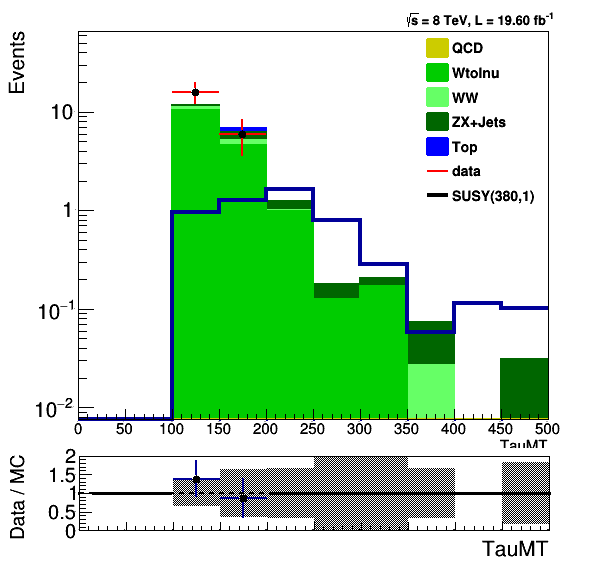
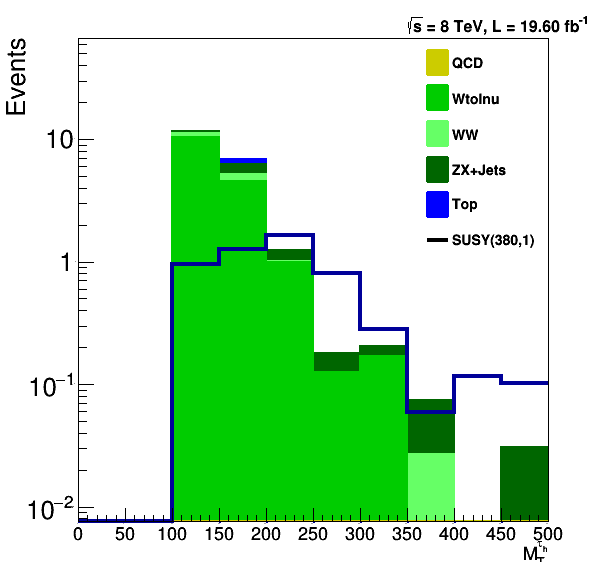
object and lepton-tau parts are update

diff --git a/notes/AN-14-275/trunk/SelectionLepTau.tex b/notes/AN-14-275/trunk/SelectionLepTau.tex
@@ -10,25 +10,26 @@ To suppress dilepton and multilepton backgrounds, events with an extra $e$ or $\
 
 After requesting two opposite sign leptons in the events, a loose cut on \MET $(30 \GeV)$ is applied to suppress QCD events. As there is no b-quark in the signal, rejecting events with one or more b-tagged jets with $\PT > 20 \GeV$ helps a lot in reducing $t\bar{t}$ and $W+b$ backgrounds.
 
-To reject QCD low mass resonances, the invariant mass of the lepton and the $\Tau$ is requested to be greater than $15\ \GeV$. Another cut on the invariant mass of the di-lepton system is applied to remove the peak of the $Z+jets$ events. It has been found that the visible mass of the $Z\to\tau\tau\to\,e +\Tau$ moves to $60 \pm 15 GeV$ due to mis-reconstruction of the energy of the $\Tau$ and also the missing energy due to the decay of the $\tau$ to electron. So the events with invariant mass in the range of $[45,75]$ are cut away. The minimum angle in the transverse plane between the \MET and the jets with \PT $>$ 40 \GeVc and $|\eta| <$ 5.0 is asked to be greater than 1.0. As the last pre-selection cut, events with $MT2<40 GeV$ are discarded to kill the bulk of the QCD events and get rid of related uncertainties due to mis-reconstruction of the QCD events. As it has mentioned above, the signal events are expected to have high $MT2$ values and are not removed with such a cut.
+To reject QCD low mass resonances, the invariant mass of the lepton and the $\Tau$ is requested to be greater than $15\ \GeV$. Another cut on the invariant mass of the di-lepton system is applied to remove the peak of the $Z+jets$ events. It has been found that the visible mass of the $Z\to\tau\tau\to\,e +\Tau$ moves to $60 \pm 15 GeV$ due to mis-reconstruction of the energy of the $\Tau$ and also the missing energy due to the decay of the $\tau$ to electron. So the events with invariant mass in the range of $[45,75]$ are cutted away. The minimum angle in the transverse plane between the \MET and the jets with \PT $>$ 40 \GeVc and $|\eta| <$ 5.0 is asked to be greater than 1.0. As the last pre-selection cut, events with $MT2<40 GeV$ are discarded to kill the bulk of the QCD events and get rid of related uncertainities due to mis-reconstruction of the QCD events. As it has mentioned above, the signal events are expected to have high $MT2$ values and are not removed with such a cut.
 
 \begin{table}
 \begin{center}
 \begin{tiny}
-\begin{tabular}{lrrrrrrlr}
+\begin{tabular}{llllllllll}
 \hline
 \hline
- & SUSY(380,1) & QCD & VV & Wtolnu & DY & Top & Total Bkg & Data\\
+  & SUSY(380,1) & QCD & W & ZX & Top & WW & Higgs & MC & Data \\
 \hline
 \hline
-\MET,b,DiLepton Selection & 20.49 & 6748.66 & 589.41 & 46139.56 & 17071.56 & 1845.78 & 72394.97$\pm$2147.82 & 76066\\
-Extra Lepton Veto & 20.49 & 6477.95 & 582.79 & 46120.60 & 17039.83 & 1820.77 & 72041.94$\pm$2130.68 & 75992\\
-Cuts on $m_{\mu\Tau}$ & 19.89 & 6072.89 & 574.26 & 45438.09 & 15867.28 & 1794.82 & 69747.33$\pm$2121.47 & 73459\\
-$\mindphifour > 1.0$ & 12.70 & 2271.96 & 198.61 & 11416.01 & 3169.72 & 693.16 & 17749.46$\pm$1498.73 & 19761\\
-$\mttwo > 40 \GeV$ & 9.86 & 1514.64 & 82.14 & 4466.30 & 68.90 & 251.07 & 6383.05$\pm$1478.31 & 5446\\
+\MET,b,DiLepton Selection & 20.49$\pm$2.03 & 6748.66 & 46139.56 & 17071.56 & 1845.78 & 589.41 & 248.92 & 72643.89$\pm$2147.82 & 76066.00$\pm$275.80 \\
+Extra Lepton Veto & 19.89$\pm$2.00 & 6476.83 & 46048.34 & 15902.83 & 1797.65 & 575.12 & 243.94 & 71044.71$\pm$2130.46 & 74382.00$\pm$272.73 \\
+Cuts on $m_{\e\Tau}$ & 15.99$\pm$1.71 & 4788.17 & 27465.97 & 5826.98 & 1355.28 & 437.13 & 155.56 & 40029.09$\pm$2068.14 & 41968.00$\pm$204.86 \\
+$\mindphifour > 1.0$ & 12.70$\pm$1.56 & 2271.96 & 11416.01 & 3169.72 & 693.16 & 198.61 & 94.85 & 17844.31$\pm$1498.73 & 19761.00$\pm$140.57 \\
+$\mttwo > 40 \GeV$ & 9.86$\pm$1.38 & 1514.64 & 4466.3 & 68.9 & 251.07 & 82.14 & 1.46 & 6384.52$\pm$1478.31 & 5446.00$\pm$73.80 \\
 \hline
-$\mttwo > 90 \GeV$ & 5.69 & 0.00 & 1.57 & 16.1 & 1.82 & 0.64 & 20.21$\pm$4.24 & 25\\
-$\tauMT > 200 \GeV$ & 3.47 & 0.00 & 0.05 & 1.2 & 0.38 & 0.02 & 1.74$\pm$0.63 & 3\\
+$\mttwo > 90 \GeV$ & 5.69$\pm$1.08 & 0 & 16.18 & 1.82 & 0.64 & 1.57 & 0.19 & 20.40$\pm$4.24 & - \\
+$\tauMT > 200 \GeV$ & 3.47$\pm$0.88 & 0 & 1.29 & 0.38 & 0.02 & 0.05 & 0.06 & 1.79$\pm$0.63 & - \\
+
 \hline
 \hline
 \end{tabular}
@@ -41,20 +42,20 @@ $\tauMT > 200 \GeV$ & 3.47 & 0.00 & 0.05 & 1.2 & 0.38 & 0.02 & 1.74$\pm$0.63 & 3
 \begin{table}
 \begin{center}
 \begin{tiny}
-\begin{tabular}{lrrrrrrlr}
+\begin{tabular}{llllllllll}
 \hline
 \hline
- & SUSY(380,1) & QCD & VV & Wtolnu & DY & Top & Total Bkg & Data\\
+  & SUSY(380,1) & QCD & W & ZX & Top & WW & Higgs & MC & Data \\
 \hline
 \hline
-\MET, b, DiLeptons & 18.28 & 6791.27 & 1778.41 & 79084.31 & 37000.63 & 4433.53 & 129088.14$\pm$3009.89 & 121644\\
-Extra Lepton Veto & 16.33 & 5192.66 & 1034.93 & 77139.4 & 32166.18 & 2972.25 & 118505.41$\pm$2601.51 & 111344\\
-Cuts on $m_{\mu\Tau}$ & 13.68 & 1721.45 & 759.7 & 46551.75 & 6963.01 & 2128.4 & 58124.31$\pm$1262.89 & 55282\\
-$\mindphifour > 1.0$ & 11.29 & 70.87 & 382.9 & 19592.59 & 4130.47 & 1129.26 & 25306.09$\pm$214.76 & 26955\\
-$\mttwo > 40\GeV$ & 8.18 & 0 & 164.59 & 8558.78 & 157.33 & 427.51 & 9308.22$\pm$132.94 & 9253\\
+\MET,b,DiLepton Selection & 18.28 & 6791.27 & 79084.31 & 37000.63 & 4433.53 & 1778.41 & 242.76 & 129330.9$\pm$3009.89 & 121644 \\
+Extra Lepton Veto & 16.33 & 5192.66 & 77139.4 & 32166.18 & 2972.25 & 1034.93 & 217.98 & 118723.39$\pm$2601.51 & 111344 \\
+Cuts on $m_{\mu\Tau}$ & 13.68 & 1721.45 & 46551.75 & 6963.01 & 2128.4 & 759.7 & 109.29 & 58233.6$\pm$1262.89 & 55282 \\
+$\mindphifour > 1.0$ & 11.29 & 70.87 & 19592.59 & 4130.47 & 1129.26 & 382.9 & 80.08 & 25386.17$\pm$214.76 & 26955 \\ 
+$\mttwo > 40 \GeV$ & 8.18 & 0 & 8558.78 & 157.33 & 427.51 & 164.59 & 1.5 & 9309.72$\pm$132.94 & 9253 \\
 \hline
-$\mttwo > 90\GeV$ & 3.5 & 0 & 2.19 & 17.67 & 1.17 & 1.15 & 22.18$\pm$5.20 & 30\\
-$\tauMT > 200\GeV$ & 2.41 & 0 & 0.34 & 0.79 & 0.28 & 0 & 1.40$\pm$0.49 & 5\\
+$\mttwo > 90 \GeV$ & 3.5 & 0 & 17.67 & 1.17 & 1.15 & 2.19 & 0.17 & 22.35$\pm$5.2 &  \\
+$\tauMT > 200 \GeV$ & 2.41 & 0 & 0.79 & 0.28 & 0 & 0.34 & 0.05 & 1.45$\pm$.49 &  \\
 \hline
 \hline
 \end{tabular}
@@ -82,7 +83,7 @@ The cut-flow-tables for the $e\Tau$ and $\mu\Tau$ pre-selections are shown in ta
 \label{fig:datamcmuotau}
 \end{figure}
 
-Similar to the $\Tau\Tau$ channel, first we find the optimized cut on the $MT2$ to suppress backgrounds especially $W+jet$ events. As it has been shown in FIG~\ref{fig:mt2leptontau}, the best value to cut on, similar to the $\Tau\Tau$ channel is $MT2 > 90 GeV$ for both $l\Tau$ channels. Such a high cut on the $MT2$ increases the sensitivity of the study to signal events with high $\chipm$ and $\chiz$ mass differences. We then investigate the shape of different variables for signal and backgrounds and try to find the most optimized cut to have the best exclusion. The most sensitive variable for both channels are found to be the $\Tau$ transverse mass. As it has been shown in FIG~\ref{fig:taumtleptontau}, the best cut value for the high mass difference signal is $M_{T}^{\Tau} > 200 GeV$. You can find the composition of the backgrounds and number of remaining signals for both channels in the last row of the cut-flow-tables (tables~\ref{tbl:cutflowtableeletau} and~\ref{tbl:cutflowtablemuotau}).
+Similar to the $\Tau\Tau$ channel, first we find the optimized cut on the $MT2$ to suppress backgrounds especially $W+jet$ events. As it has been shown in FIG~\ref{fig:mt2leptontau}, the best value to cut on, similar to the $\Tau\Tau$ channel is $MT2 > 90 GeV$ for both $\ell+\Tau$ channels. Such a high cut on the $MT2$ increases the sensitivity of the study to signal events with high $\chipm$ and $\chiz$ mass differences. We then investigate the shape of different variables for signal and backgrounds and try to find the most optimized cut to have the best exclusion. The most sensitive variable for both channels are found to be the $\Tau$ transverse mass. As it has been shown in FIG~\ref{fig:taumtleptontau}, the best cut value for the high mass difference signal is $M_{T}^{\Tau} > 200 GeV$. You can find the composition of the backgrounds and number of remaining signals for both channels in the last row of the cut flow tables (tables~\ref{tbl:cutflowtableeletau} and~\ref{tbl:cutflowtablemuotau}).
 
 \begin{figure}[htbp]
 \centering
@@ -100,15 +101,4 @@ Similar to the $\Tau\Tau$ channel, first we find the optimized cut on the $MT2$ 
 \label{fig:taumtleptontau}
 \end{figure}
 
-Opposite to the $\Tau\Tau$ channel, the events with $MT2<90 GeV$ are not useful in electron/$\mu\Tau$ channels because of the contamination of the $W+jets$ events.
-
-
-
-
-
-
-
-
-
-
-
+Opposite to the $\Tau\Tau$ channel, the events with $MT2<90 GeV$ are not useful in $\ell\tau$ channels because of the contamination of the $W+jets$ events.

diff --git a/notes/AN-14-275/trunk/SelectionEleTau/TauMT.C b/notes/AN-14-275/trunk/SelectionEleTau/TauMT.C
@@ -11,7 +11,7 @@
    TauMT_ratio_AllSUSYc_ratio_TauMT_MT2Cut->SetFrameBorderMode(0);
   
 // ------------>Primitives in pad: TauMT_ratio_AllSUSY_plotpad_TauMT_MT2Cut
-   TPad *TauMT_ratio_AllSUSY_plotpad_TauMT_MT2Cut = new TPad("TauMT_ratio_AllSUSY_plotpad_TauMT_MT2Cut", "Pad containing the overlay plot",0,0.211838,1,1);
+   TPad *TauMT_ratio_AllSUSY_plotpad_TauMT_MT2Cut = new TPad("TauMT_ratio_AllSUSY_plotpad_TauMT_MT2Cut", "Pad containing the overlay plot",0,0.02,1,1); //.211838
    TauMT_ratio_AllSUSY_plotpad_TauMT_MT2Cut->Draw();
    TauMT_ratio_AllSUSY_plotpad_TauMT_MT2Cut->cd();
    TauMT_ratio_AllSUSY_plotpad_TauMT_MT2Cut->Range(-83.44463,-2.453209,550.7343,2.138869);
@@ -42,7 +42,7 @@
    Int_t ci;   // for color index setting
    ci = TColor::GetColor("#000099");
    MT2Cut_TauMT_stack_4->SetLineColor(ci);
-   MT2Cut_TauMT_stack_4->GetXaxis()->SetTitle("TauMT");
+   MT2Cut_TauMT_stack_4->GetXaxis()->SetTitle("M_{T}^{#tau_{h}}");
    MT2Cut_TauMT_stack_4->GetXaxis()->SetLabelFont(42);
    MT2Cut_TauMT_stack_4->GetXaxis()->SetLabelSize(0.035);
    MT2Cut_TauMT_stack_4->GetXaxis()->SetTitleSize(0.035);
@@ -239,13 +239,13 @@
    MT2Cut_TauMT->Draw("hist");
    
    TH1D *h2_copy__39 = new TH1D("h2_copy__39","",10,0,500);
-   h2_copy__39->SetBinContent(3,16);
-   h2_copy__39->SetBinContent(4,6);
+   // h2_copy__39->SetBinContent(3,16);
+   // h2_copy__39->SetBinContent(4,6);
    // h2_copy__39->SetBinContent(5,1);
    // h2_copy__39->SetBinContent(7,1);
    // h2_copy__39->SetBinContent(10,1);
-   h2_copy__39->SetBinError(3,4);
-   h2_copy__39->SetBinError(4,2.44949);
+   // h2_copy__39->SetBinError(3,4);
+   // h2_copy__39->SetBinError(4,2.44949);
    // h2_copy__39->SetBinError(5,1);
    // h2_copy__39->SetBinError(7,1);
    // h2_copy__39->SetBinError(10,1);
@@ -274,7 +274,7 @@
    h2_copy__39->GetZaxis()->SetLabelSize(0.035);
    h2_copy__39->GetZaxis()->SetTitleSize(0.035);
    h2_copy__39->GetZaxis()->SetTitleFont(42);
-   h2_copy__39->Draw("sameE");
+   // h2_copy__39->Draw("sameE");
    
    TH1D *MT2Cut_TauMT_SUSY_380_1__40 = new TH1D("MT2Cut_TauMT_SUSY_380_1__40","",10,0,500);
    MT2Cut_TauMT_SUSY_380_1__40->SetBinContent(3,0.9566879);
@@ -333,7 +333,7 @@ tex->SetNDC();
 
    ci = TColor::GetColor("#000099");
    MT2Cut_TauMT__41->SetLineColor(ci);
-   MT2Cut_TauMT__41->GetXaxis()->SetTitle("TauMT");
+   MT2Cut_TauMT__41->GetXaxis()->SetTitle("M_{T}^{#tau_{h}}");
    MT2Cut_TauMT__41->GetXaxis()->SetLabelFont(42);
    MT2Cut_TauMT__41->GetXaxis()->SetLabelSize(0.035);
    MT2Cut_TauMT__41->GetXaxis()->SetTitleSize(0.035);
@@ -371,7 +371,7 @@ tex->SetNDC();
    entry->SetMarkerColor(1);
    entry->SetMarkerStyle(21);
    entry->SetMarkerSize(1);
-   entry=leg->AddEntry("MT2Cut_TauMT_Wtolnu","Wtolnu","f");
+   entry=leg->AddEntry("MT2Cut_TauMT_Wtolnu","W","f");
 
    ci = TColor::GetColor("#00cc00");
    entry->SetFillColor(ci);
@@ -397,7 +397,7 @@ tex->SetNDC();
    entry->SetMarkerColor(1);
    entry->SetMarkerStyle(21);
    entry->SetMarkerSize(1);
-   entry=leg->AddEntry("MT2Cut_TauMT_DY","ZX+Jets","f");
+   entry=leg->AddEntry("MT2Cut_TauMT_DY","ZX","f");
 
    ci = TColor::GetColor("#006600");
    entry->SetFillColor(ci);
@@ -423,15 +423,15 @@ tex->SetNDC();
    entry->SetMarkerColor(1);
    entry->SetMarkerStyle(21);
    entry->SetMarkerSize(1);
-   entry=leg->AddEntry("MT2Cut_TauMT_data","data","l");
+   //  entry=leg->AddEntry("MT2Cut_TauMT_data","data","l");
 
-   ci = TColor::GetColor("#ff0000");
-   entry->SetLineColor(ci);
-   entry->SetLineStyle(1);
-   entry->SetLineWidth(2);
-   entry->SetMarkerColor(1);
-   entry->SetMarkerStyle(21);
-   entry->SetMarkerSize(1);
+   // ci = TColor::GetColor("#ff0000");
+   // entry->SetLineColor(ci);
+   // entry->SetLineStyle(1);
+   // entry->SetLineWidth(2);
+   // entry->SetMarkerColor(1);
+   // entry->SetMarkerStyle(21);
+   // entry->SetMarkerSize(1);
    entry=leg->AddEntry("MT2Cut_TauMT_SUSY_380_1","SUSY(380,1)","l");
    entry->SetLineColor(1);
    entry->SetLineStyle(1);
@@ -445,7 +445,7 @@ tex->SetNDC();
   
 // ------------>Primitives in pad: TauMT_ratio_AllSUSY_ratiopad_TauMT_MT2Cut
    TauMT_ratio_AllSUSY_ratiopad_TauMT_MT2Cut = new TPad("TauMT_ratio_AllSUSY_ratiopad_TauMT_MT2Cut", "Pad containing the ratio",0,0.01863354,0.9967105,0.2189441);
-   TauMT_ratio_AllSUSY_ratiopad_TauMT_MT2Cut->Draw();
+   //TauMT_ratio_AllSUSY_ratiopad_TauMT_MT2Cut->Draw();
    TauMT_ratio_AllSUSY_ratiopad_TauMT_MT2Cut->cd();
    TauMT_ratio_AllSUSY_ratiopad_TauMT_MT2Cut->Range(-84.4542,-0.8571431,547.3882,2.214286);
    TauMT_ratio_AllSUSY_ratiopad_TauMT_MT2Cut->SetFillColor(0);
@@ -483,7 +483,7 @@ tex->SetNDC();
    h1_copy__42->SetLineColor(ci);
    h1_copy__42->SetLineWidth(2);
    h1_copy__42->SetMarkerColor(ci);
-   h1_copy__42->GetXaxis()->SetTitle("TauMT");
+   h1_copy__42->GetXaxis()->SetTitle("M_{T}^{#tau_{h}}");
    h1_copy__42->GetXaxis()->SetLabelFont(42);
    h1_copy__42->GetXaxis()->SetLabelSize(0);
    h1_copy__42->GetXaxis()->SetTitleSize(0.2);
@@ -567,7 +567,7 @@ tex->SetNDC();
    h1_copy__44->SetLineColor(ci);
    h1_copy__44->SetLineWidth(2);
    h1_copy__44->SetMarkerColor(ci);
-   h1_copy__44->GetXaxis()->SetTitle("TauMT");
+   h1_copy__44->GetXaxis()->SetTitle("M_{T}^{#tau_{h}}");
    h1_copy__44->GetXaxis()->SetLabelFont(42);
    h1_copy__44->GetXaxis()->SetLabelSize(0);
    h1_copy__44->GetXaxis()->SetTitleSize(0.2);
@@ -590,5 +590,5 @@ tex->SetNDC();
    TauMT_ratio_AllSUSYc_ratio_TauMT_MT2Cut->cd();
    TauMT_ratio_AllSUSYc_ratio_TauMT_MT2Cut->Modified();
    TauMT_ratio_AllSUSYc_ratio_TauMT_MT2Cut->cd();
-   TauMT_ratio_AllSUSYc_ratio_TauMT_MT2Cut->SetSelected(TauMT_ratio_AllSUSYc_ratio_TauMT_MT2Cut);
+   //TauMT_ratio_AllSUSYc_ratio_TauMT_MT2Cut->SetSelected(TauMT_ratio_AllSUSYc_ratio_TauMT_MT2Cut);
 }

diff --git a/notes/AN-14-275/trunk/SelectionEleTau/MT2.C b/notes/AN-14-275/trunk/SelectionEleTau/MT2.C
@@ -11,7 +11,7 @@
    MT2_ratio_AllSUSYc_ratio_MT2_MT2PreCut->SetFrameBorderMode(0);
   
 // ------------>Primitives in pad: MT2_ratio_AllSUSY_plotpad_MT2_MT2PreCut
-   TPad *MT2_ratio_AllSUSY_plotpad_MT2_MT2PreCut = new TPad("MT2_ratio_AllSUSY_plotpad_MT2_MT2PreCut", "Pad containing the overlay plot",0,0.211838,1,1);
+   TPad *MT2_ratio_AllSUSY_plotpad_MT2_MT2PreCut = new TPad("MT2_ratio_AllSUSY_plotpad_MT2_MT2PreCut", "Pad containing the overlay plot",0,0.25,1,1);
    MT2_ratio_AllSUSY_plotpad_MT2_MT2PreCut->Draw();
    MT2_ratio_AllSUSY_plotpad_MT2_MT2PreCut->cd();
    MT2_ratio_AllSUSY_plotpad_MT2_MT2PreCut->Range(21.64218,-2.833548,161.1615,4.817775);
@@ -42,7 +42,7 @@
    Int_t ci;   // for color index setting
    ci = TColor::GetColor("#000099");
    MT2PreCut_MT2_stack_2->SetLineColor(ci);
-   MT2PreCut_MT2_stack_2->GetXaxis()->SetTitle("MT2");
+   MT2PreCut_MT2_stack_2->GetXaxis()->SetTitle("M_{T2}");
    MT2PreCut_MT2_stack_2->GetXaxis()->SetLabelFont(42);
    MT2PreCut_MT2_stack_2->GetXaxis()->SetLabelSize(0.035);
    MT2PreCut_MT2_stack_2->GetXaxis()->SetTitleSize(0.035);
@@ -406,7 +406,7 @@ tex->SetNDC();
 
    ci = TColor::GetColor("#000099");
    MT2PreCut_MT2__19->SetLineColor(ci);
-   MT2PreCut_MT2__19->GetXaxis()->SetTitle("MT2");
+   MT2PreCut_MT2__19->GetXaxis()->SetTitle("M_{T2}");
    MT2PreCut_MT2__19->GetXaxis()->SetLabelFont(42);
    MT2PreCut_MT2__19->GetXaxis()->SetLabelSize(0.035);
    MT2PreCut_MT2__19->GetXaxis()->SetTitleSize(0.035);
@@ -444,7 +444,7 @@ tex->SetNDC();
    entry->SetMarkerColor(1);
    entry->SetMarkerStyle(21);
    entry->SetMarkerSize(1);
-   entry=leg->AddEntry("MT2PreCut_MT2_Wtolnu","Wtolnu","f");
+   entry=leg->AddEntry("MT2PreCut_MT2_Wtolnu","W","f");
 
    ci = TColor::GetColor("#00cc00");
    entry->SetFillColor(ci);
@@ -457,7 +457,7 @@ tex->SetNDC();
    entry->SetMarkerColor(1);
    entry->SetMarkerStyle(21);
    entry->SetMarkerSize(1);
-   entry=leg->AddEntry("MT2PreCut_MT2_VV","VV","f");
+   entry=leg->AddEntry("MT2PreCut_MT2_VV","WW","f");
 
    ci = TColor::GetColor("#66ff66");
    entry->SetFillColor(ci);
@@ -470,7 +470,7 @@ tex->SetNDC();
    entry->SetMarkerColor(1);
    entry->SetMarkerStyle(21);
    entry->SetMarkerSize(1);
-   entry=leg->AddEntry("MT2PreCut_MT2_DY","ZX+Jets","f");
+   entry=leg->AddEntry("MT2PreCut_MT2_DY","ZX","f");
 
    ci = TColor::GetColor("#006600");
    entry->SetFillColor(ci);
@@ -564,7 +564,7 @@ tex->SetNDC();
    h1_copy__20->SetLineColor(ci);
    h1_copy__20->SetLineWidth(2);
    h1_copy__20->SetMarkerColor(ci);
-   h1_copy__20->GetXaxis()->SetTitle("MT2");
+   h1_copy__20->GetXaxis()->SetTitle("M_{T2}");
    h1_copy__20->GetXaxis()->SetLabelFont(42);
    h1_copy__20->GetXaxis()->SetLabelSize(0);
    h1_copy__20->GetXaxis()->SetTitleSize(0.2);
@@ -668,7 +668,7 @@ tex->SetNDC();
    h1_copy__22->SetLineColor(ci);
    h1_copy__22->SetLineWidth(2);
    h1_copy__22->SetMarkerColor(ci);
-   h1_copy__22->GetXaxis()->SetTitle("MT2");
+   h1_copy__22->GetXaxis()->SetTitle("M_{T2}");
    h1_copy__22->GetXaxis()->SetLabelFont(42);
    h1_copy__22->GetXaxis()->SetLabelSize(0);
    h1_copy__22->GetXaxis()->SetTitleSize(0.2);

diff --git a/notes/AN-14-275/trunk/Object.tex b/notes/AN-14-275/trunk/Object.tex
@@ -88,4 +88,5 @@ The $\hadtau$ candidates are vetoed if signals exist in the muon system close to
 \label{sec:jetmet}
 Particle flow algorithm is used to reconstruct jets and \ETmiss. The medium working point of the Combined Secondary Vertex algorithm is used to tag b-jets.
 
+The minimum $\Delta\phi$ between \ETmiss and jets, hereafter referred to as \mindphifour, is used in this analysis to suppress QCD events. To calculate \mindphifour, all the pf-jets in $|\eta|<5.0$ region and with $\pt>40\GeV$ are used without applying any extra identification. $\mindphifour > 1.0$ is found useful for this analysis.
 
